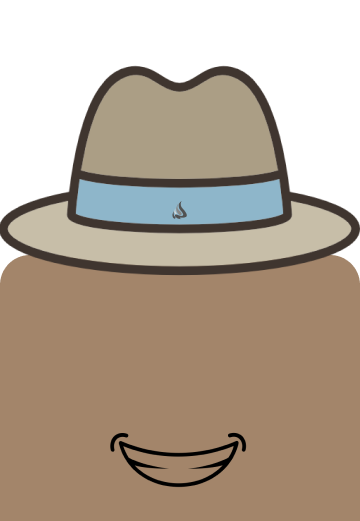
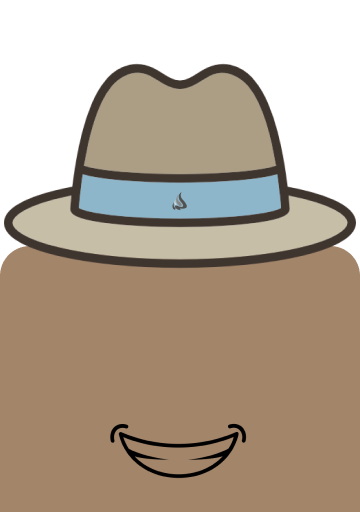
revisi script responsive

diff --git a/static/css/style.css b/static/css/style.css
@@ -1,20 +1,19 @@
 .home{
     position: relative;
-    width: 360px;
-    height: 640px;
+    width: auto;
+    height: auto;
     display: flex;
     justify-content: center;
     margin: auto;
     
     background: #F0E9D2;
-    box-shadow: 0px 4px 4px rgba(0, 0, 0, 0.25);
 }
 
 .navbar{
-    position: absolute;
-    width: 360px;
+    position: fixed;
+    width: 100%;
     height: 139px;
-    top: 501px;
+    top: calc(100% - 139px);
     display: flex;
     justify-content: center;
 
@@ -24,7 +23,7 @@
 }
 
 .welcome{
-    position: absolute;
+    position: fixed;
     width: 322px;
     height: 77px;
     display: flex;
@@ -102,8 +101,8 @@
 
 .data{
     position: relative;
-    width: 360px;
-    height: 640px;
+    width: 100%;
+    height: 100%;
     display: flex;
     justify-content: center;
     margin: auto;
@@ -113,7 +112,7 @@
 
 .navbar-back{
     position: absolute;
-    width: 360px;
+    width: 100%;
     height: 37px;
     left: 0px;
     top: 0px;
@@ -124,7 +123,7 @@
 
 .navbar-atas{
     position: absolute;
-    width: 153px;
+    width: 100%;
     height: 42px;
 }
 
@@ -149,7 +148,7 @@
 
 .grafik{
     position: absolute;
-    width: 324px;
+    width: calc(100% - 42px);
     height: 248px;
     left: 18px;
     top: 54px;
@@ -158,7 +157,7 @@
 
 .data-sensor{
     position: absolute;
-    width: 326px;
+    width: calc(100% - 42px);
     height: 246px;
     left: 17px;
     top: 347px;
@@ -169,8 +168,8 @@
 
 .control{
     position: relative;
-    width: 360px;
-    height: 640px;
+    width: 100%;
+    height: 100%;
     display: flex;
     justify-content: center;
     margin: auto;
@@ -178,89 +177,82 @@
     box-shadow: 0px 4px 4px rgba(0, 0, 0, 0.25);
 }
 
-.maskot{
-    position: absolute;
-    width: 361px;
-    height: 549px;
-    left: -1px;
-    top: 119px;
+.gambar-maskot{
+    position: fixed;
+    margin: auto;
+    display: flex;
+    width: 360px;
+    height: 540px;
+    top: calc(100% - 540px);
 }
 
-.Shutdown-alarm{
-    position: absolute;
-    width: 166px;
+.tulisan-shutdown-alarm{
+    position: fixed;
+    margin: auto;
+    width: auto;
     height: 30px;
-    left: 96px;
-    top: 120px;
-    
+    top: calc(100% - 520px);
+
     font-family: 'Poppins';
     font-style: normal;
     font-weight: 400;
     font-size: 20px;
     line-height: 30px;
-    
-    text-align: center;
-    
+
     color: #000000;
-    
 }
 
 .shutdown{
-    position: absolute;
-    width: 71.66px;
-    height: 66.9px;
-    left: 144.12px;
-    top: 222.69px;
+    position: fixed;
+    display: flex;
+    margin: auto;
+    padding-left: 40px;
+    padding-right: 40px;
+    top: calc(100% - 430px);
 }
 
-.Unlock-regulator{
-    position: absolute;
-    width: 67px;
+.b-shutdown{
+    position: fixed;
+    margin: auto;
+    background-color: white;
+    border: none;
+}
+
+#tombol-container{
+    position: fixed;
+    display: flex;
+	justify-content: space-between;
+    top: calc(100% - 200px);
+}
+
+.tulisan-tombol{
+    position: fixed;
+    margin: auto;
+    width: 130px;
     height: 30px;
-    left: 80px;
-    top: 400px;
-    
+
     font-family: 'Poppins';
     font-style: normal;
     font-weight: 400;
     font-size: 20px;
     line-height: 30px;
-    
+
+    top: calc(100% - 250px);
+
+    color: #000000;
+}
+
+.lock-unlock{
+    display: flex;
     text-align: center;
-    
-    color: #000000;  
+	justify-content: space-between;
 }
 
-.unlock{
-    position: absolute;
-    width: 76px;
-    height: 76px;
-    left: 75px;
-    top: 447px;
+.gambar-tombol{
+    padding-left: 20px;
+    padding-right: 20px;
 }
-
-.Lock-regulator{
-    position: absolute;
-    width: 44px;
-    height: 30px;
-    left: 229px;
-    top: 400px;
-    
-    font-family: 'Poppins';
-    font-style: normal;
-    font-weight: 400;
-    font-size: 20px;
-    line-height: 30px;
-    
-    text-align: center;
-    
-    color: #000000;    
-}
-
-.lock{
-    position: absolute;
-    width: 76px;
-    height: 76px;
-    left: 212px;
-    top: 447px;
+.c-shutdown{
+    background-color:#A3856A;
+    border: none;
 }

diff --git a/templates/control.html b/templates/control.html
@@ -18,14 +18,21 @@
             <a href="/home"><img src="{{ url_for('static', filename='css/image/Back.png') }}"></a>
         </div>
     </div>
-    <div class="maskot">
-        <img src="{{ url_for('static', filename='css/image/Maskot.png') }}"/>
-    </div>
-    <h2 class="Shutdown-alarm">Shutdown Alarm</h2>
-    <a class="shutdown"><img src="{{ url_for('static', filename='css/image/Botton-shutdown.png') }}"></a>
-    <h2 class="Unlock-regulator">Unlock</h2>
-    <a class="unlock"><img src="{{ url_for('static', filename='css/image/Botton-unlock.png') }}"></a>
-    <h2 class="Lock-regulator">Lock</h2>
-    <a class="lock"><img src="{{ url_for('static', filename='css/image/Botton-lock.png') }}"></a>
-</body>
+        <img class="gambar-maskot" src="{{ url_for('static', filename='css/image/Maskot.png') }}"/>
+                <h2 class="tulisan-shutdown-alarm">Shutdown Alarm
+                <form action = "http://localhost:5000/form" method = "post">
+                <button class="b-shutdown"><img class="shutdown" src="{{ url_for('static', filename='css/image/Botton-shutdown.png') }}" type = "submit" value = "submit"></button></h2>
+                <div id="tombol-container">
+                    <div class="lock-unlock">
+                        <h2 class="tulisan-tombol">Unlock</h2>
+                        <form action = "http://localhost:5000/form" method = "post">
+                        <button class="c-shutdown"><img class="gambar-tombol" src="{{ url_for('static', filename='css/image/Botton-unlock.png') }}" type = "submit" value = "submit"></button>
+                    </div>
+                    <div class="lock-unlock">   
+                        <h2 class="tulisan-tombol">Lock</h2>
+                        <form action = "http://localhost:5000/form" method = "post">
+                        <button class="c-shutdown"><img class="gambar-tombol" src="{{ url_for('static', filename='css/image/Botton-lock.png') }}" type = "submit" value = "submit"></button>
+                    </div>
+                </div>
+    </body>
 </html>

diff --git a/templates/home.html b/templates/home.html
@@ -22,13 +22,13 @@
     <div class="navbar">
         <div id="flex-container">
                 <a href="/data"><button class="tombol">
-                    <p>DATA</p>
+                    <p class="t-navbar">DATA</p>
                 </button></a>
                 <a href="/control"><button class="tombol">
-                    <p>CONTROL</p>
+                    <p class="t-navbar">CONTROL</p>
                 </button></a>
         <div class="jargon">
-            <h4>Solusi hebat untuk kompor gas anda!</h4>
+            <h4 class="t-jargon">Solusi hebat untuk kompor gas anda!</h4>
         </div>
     </div>
 </body>
